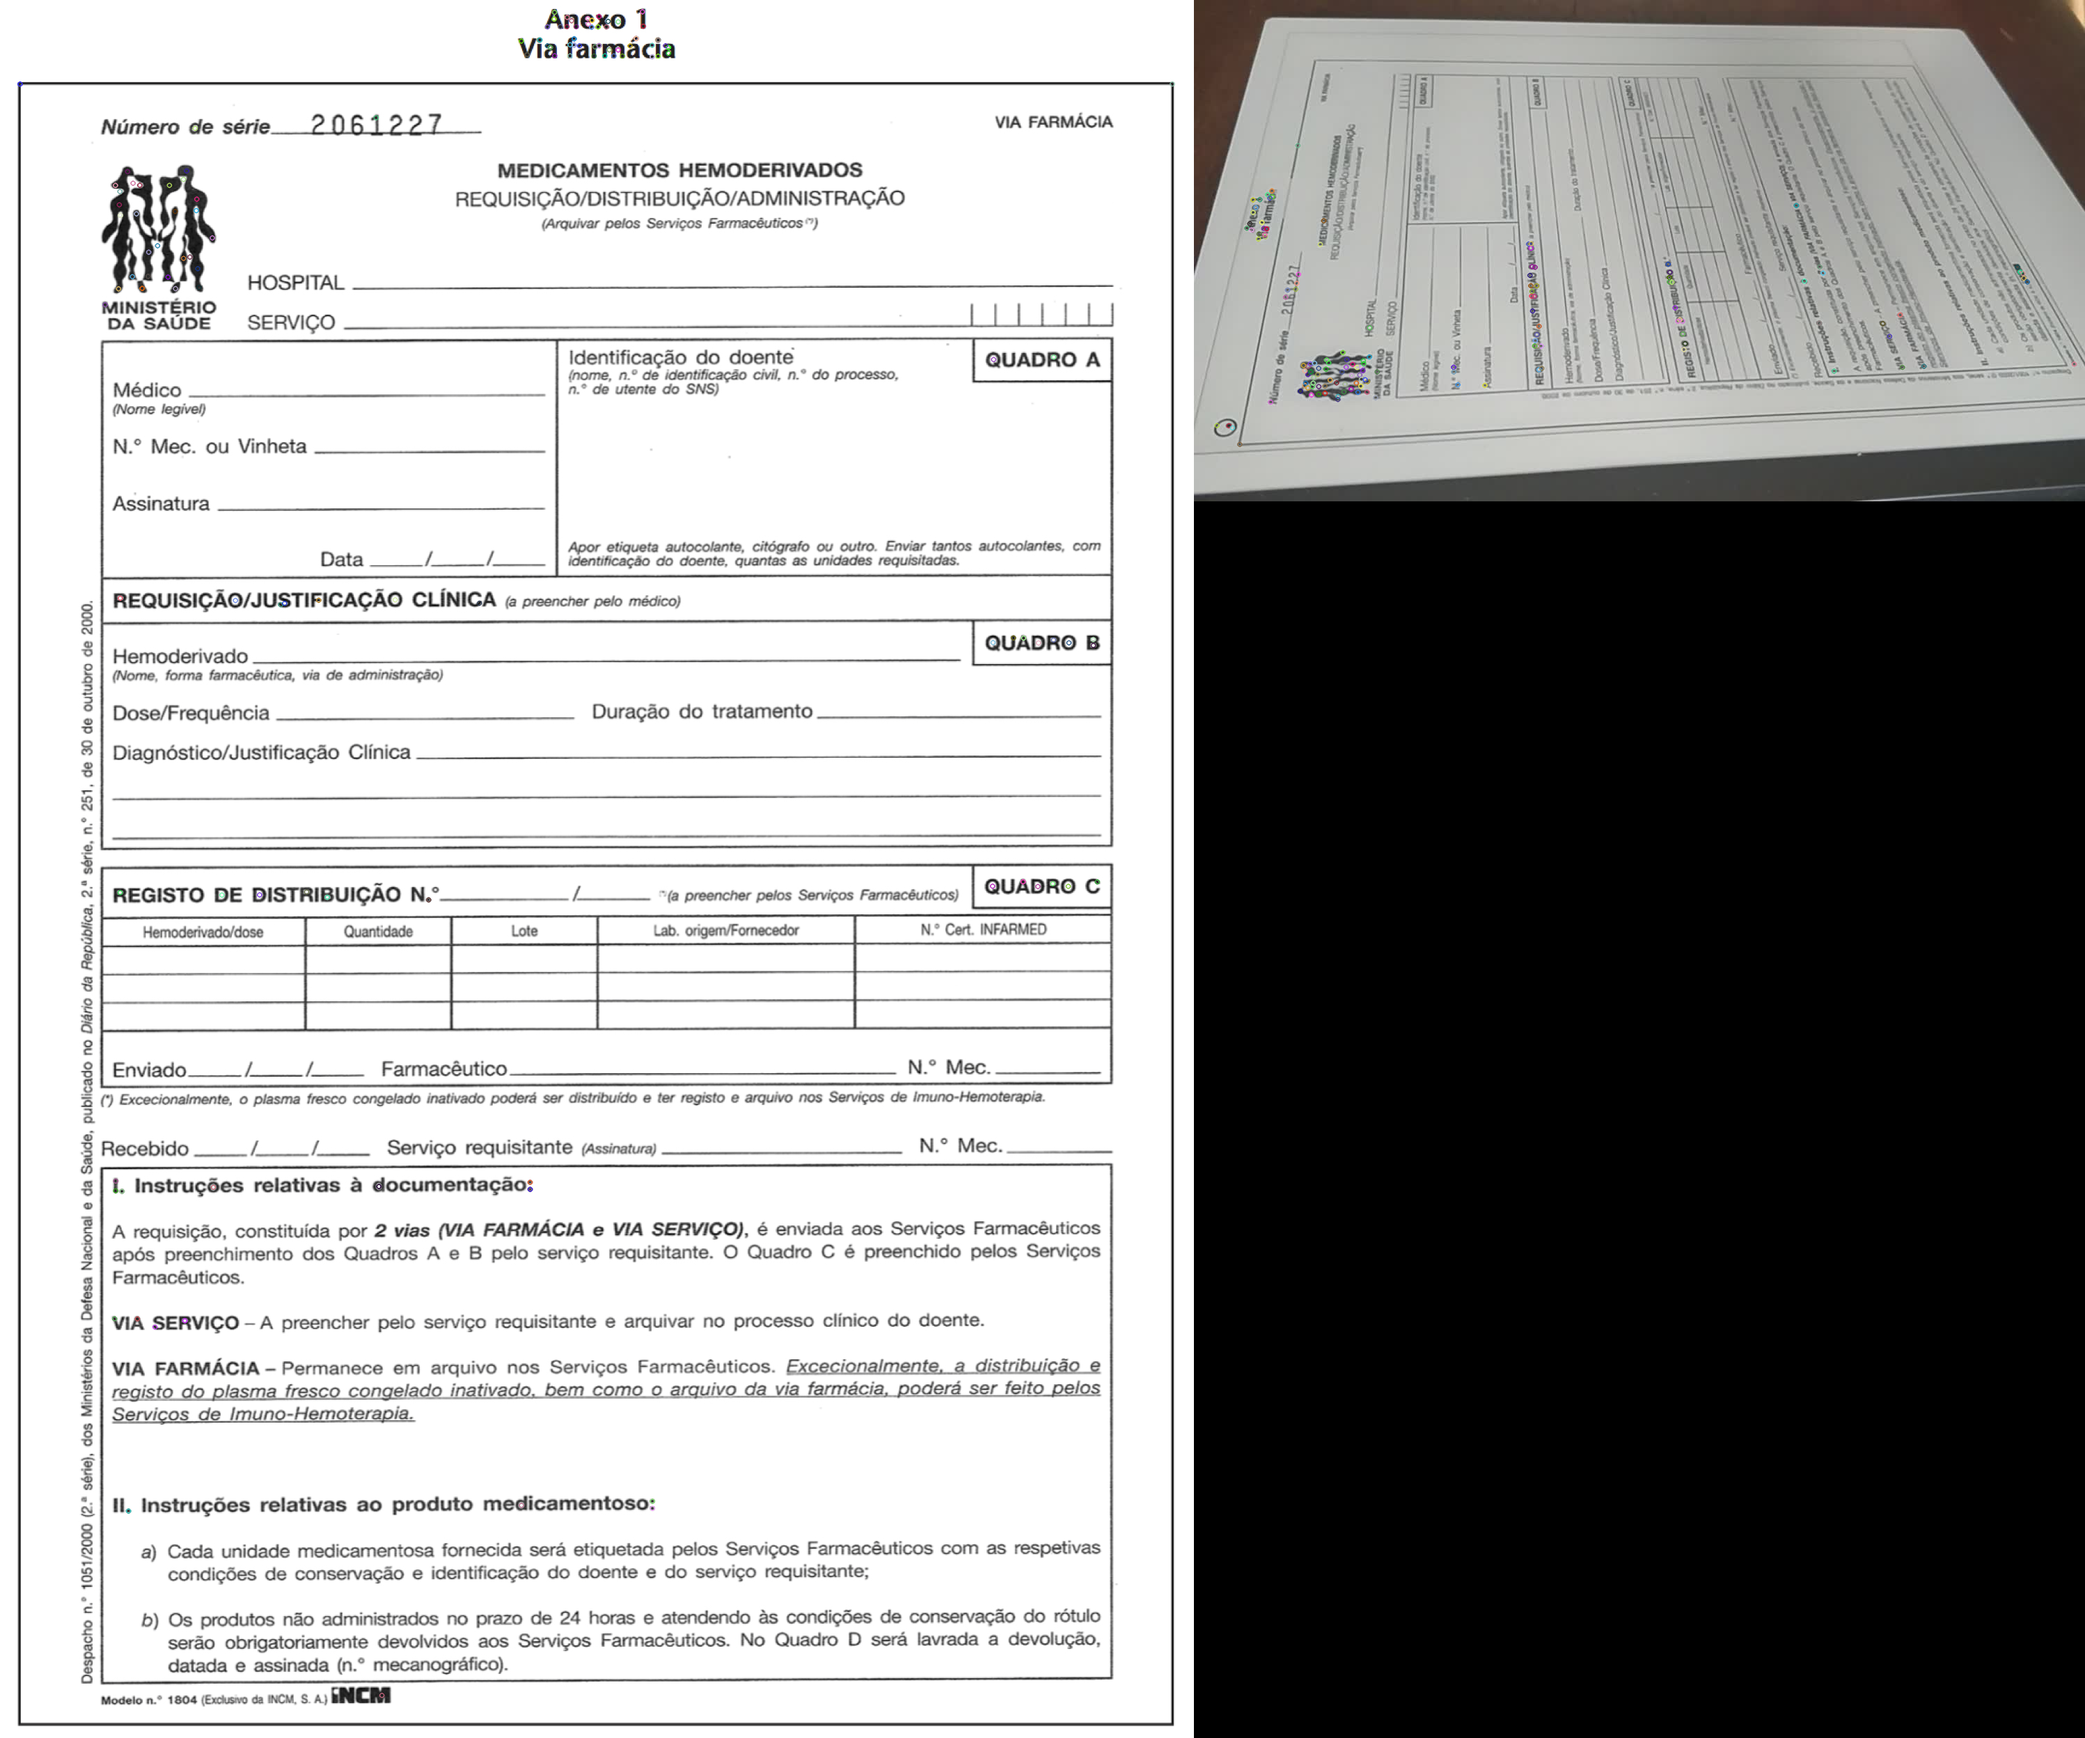
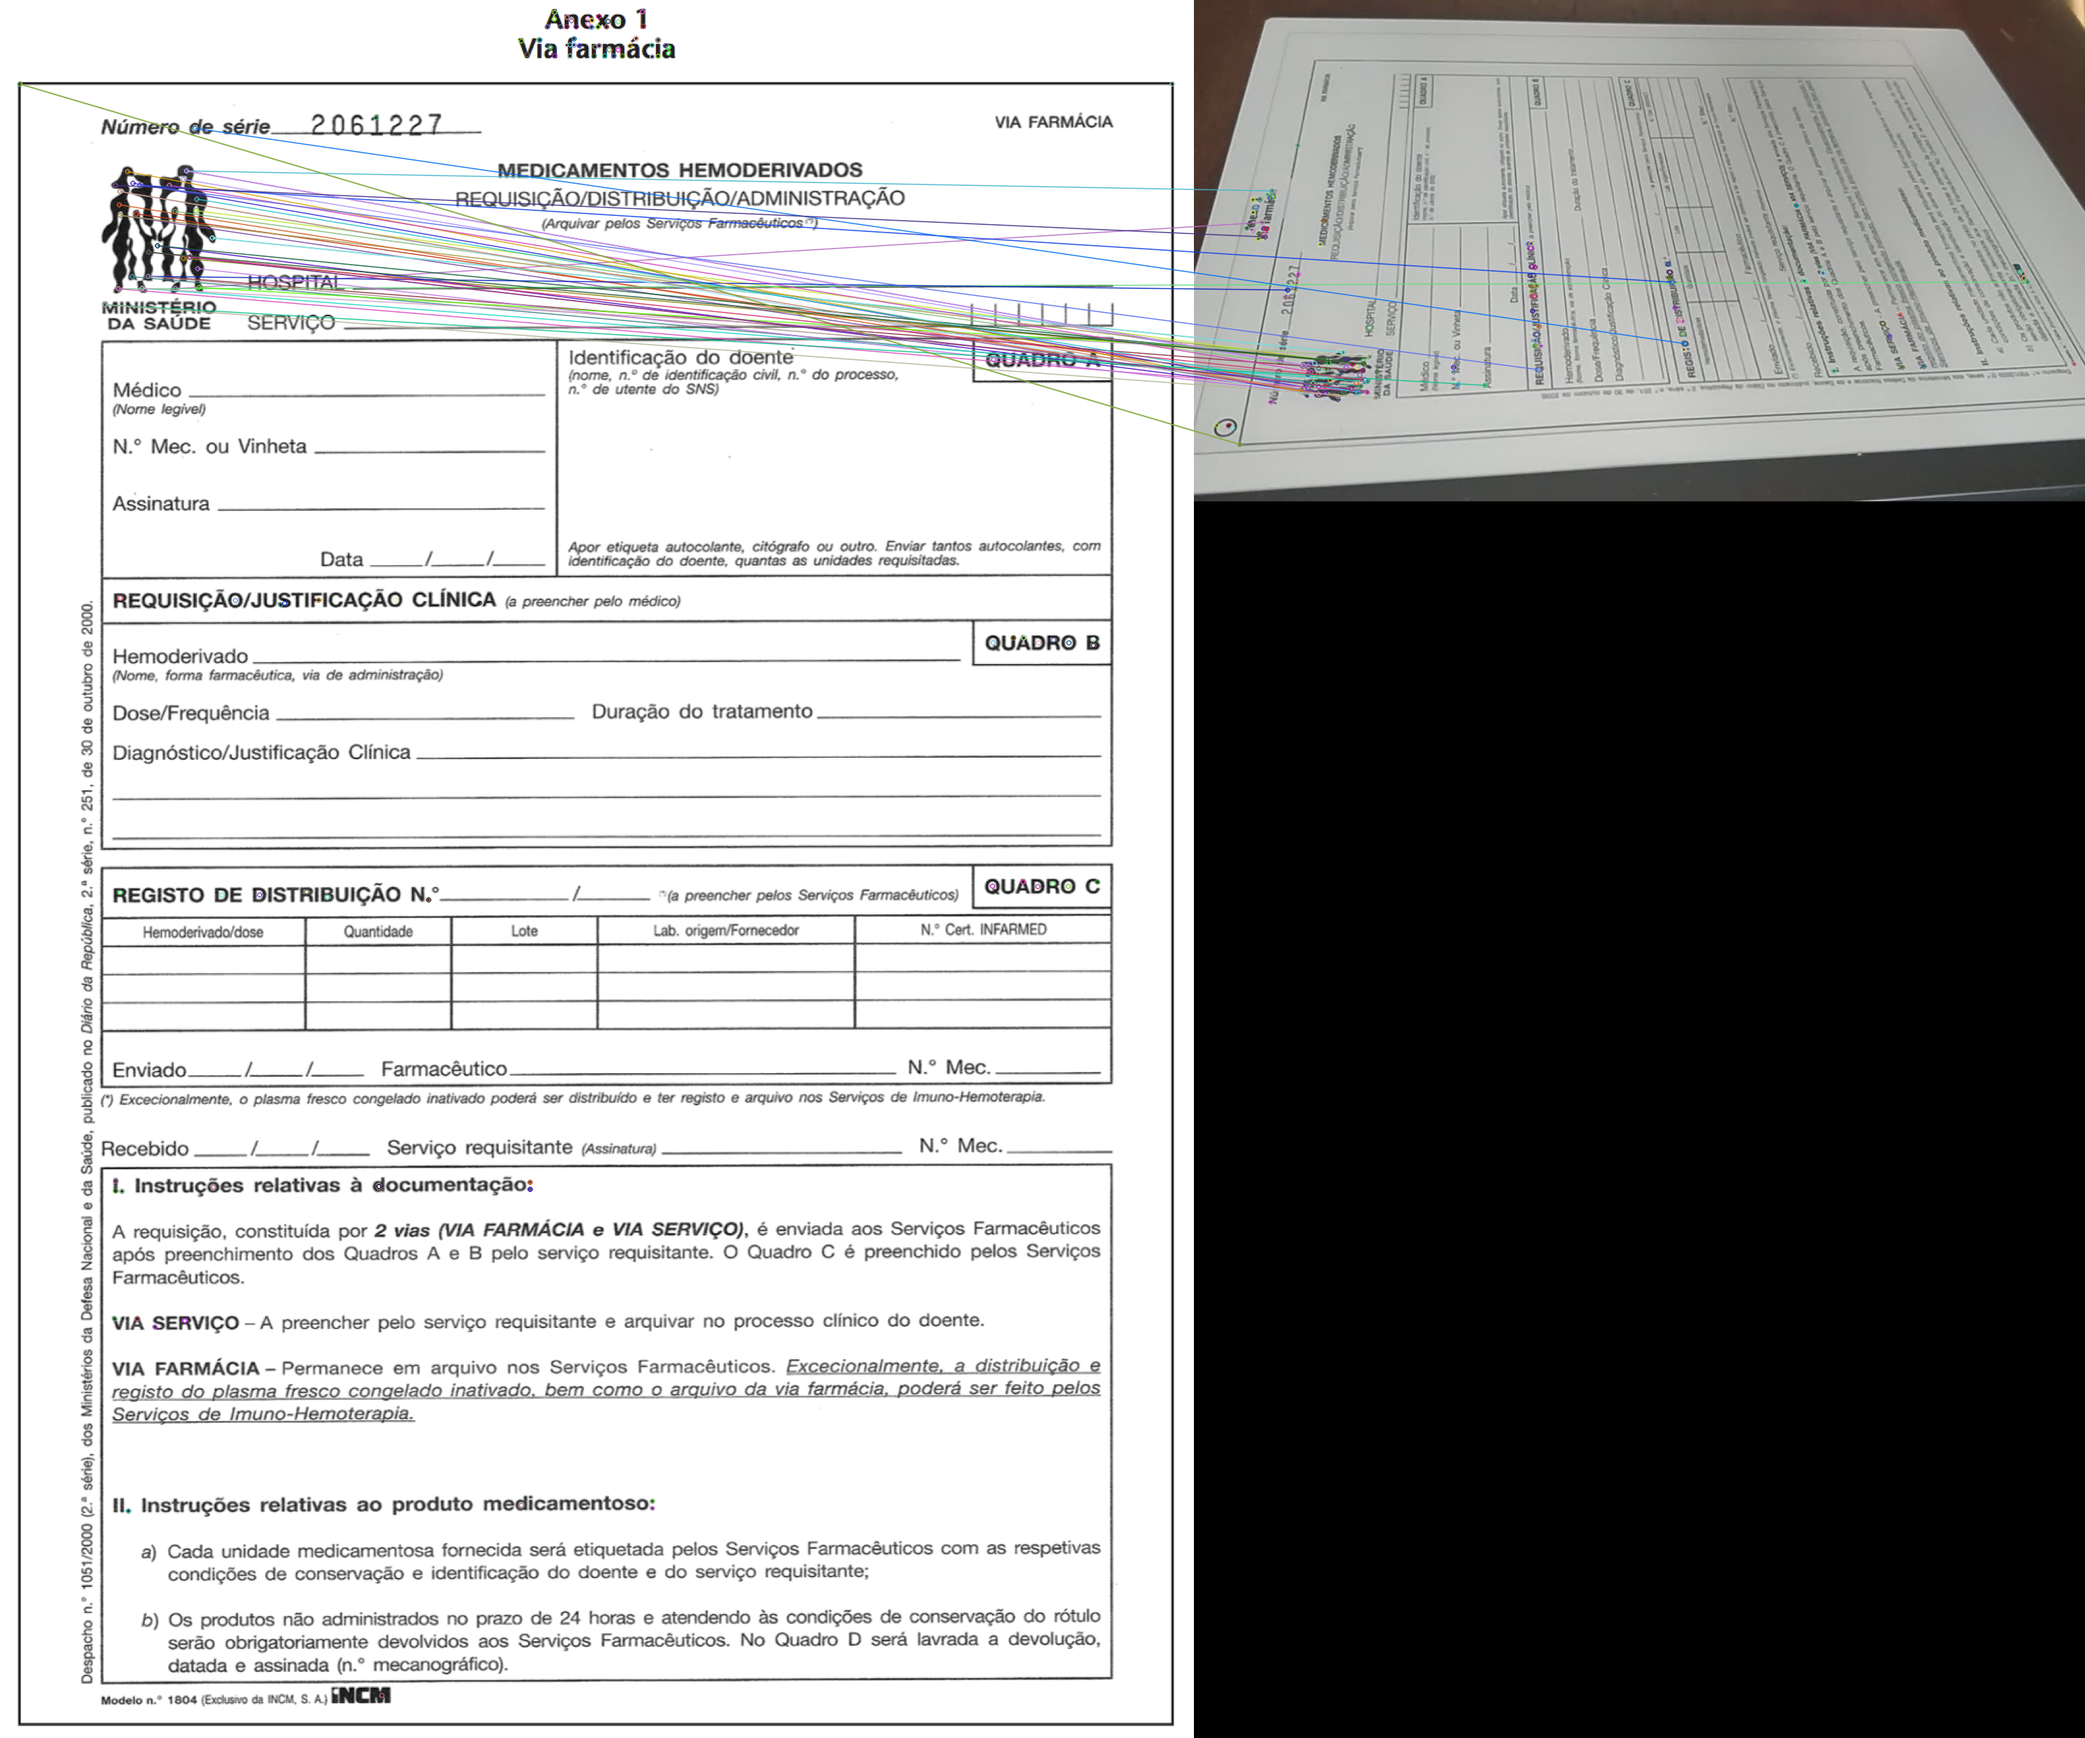
ransac eigenvector calculation

Changed region(s): [[0.0621, 0.0938, 0.6521, 0.25]]

diff --git a/main.py b/main.py
@@ -15,8 +15,8 @@ if __name__ == "__main__":
     matches = kp_matching.brute_force_matcher(d_template, d_picture)
     samples = np.array([(kp_template[i].pt + kp_picture[j].pt) for (i, j) in matches])
     model = ransac.HomographyModel
-    max_trials = len(samples)
-    H, filter = ransac.ransac(samples, model, 4, 100, max_trials)
+    max_trials = len(samples)*2
+    H, filter = ransac.ransac(samples, model, 4, 300, max_trials)
     matches_matrix = np.array([i for i in matches])
     new_matches = matches_matrix[filter]
 
@@ -32,8 +32,8 @@ if __name__ == "__main__":
     # cv2.imshow('Matched Keypoints', result)
     cv2.imwrite('results/result_task_1.png', result)
 
-    new_frame = transform_im(H, 'data/rgb0001.jpg')
-    cv2.imwrite('results/result_after_im_transform.png', new_frame)
+    # new_frame = transform_im(H, 'data/rgb0001.jpg')
+    # cv2.imwrite('results/result_after_im_transform.png', new_frame)
 
 
     # cv2.waitKey(0)

diff --git a/ransac.py b/ransac.py
@@ -17,9 +17,10 @@ class HomographyModel:
             A[i * 2] = [x1, y1, 1, 0, 0, 0, -x2 * x1, -x2 * y1, -x2]
             A[i * 2 + 1] = [0, 0, 0, x1, y1, 1, -y2 * x1, -y2 * y1, -y2]
 
-        # Compute the SVD of A
-        U, S, Vt = np.linalg.svd(A)
 
+
+        # Compute the SVD of A^T.A
+        U, S, Vt = np.linalg.svd(np.dot(np.transpose(A), A))
         # The homography matrix is the last column of Vt
         self.homography = Vt[-1].reshape(3, 3)
 
